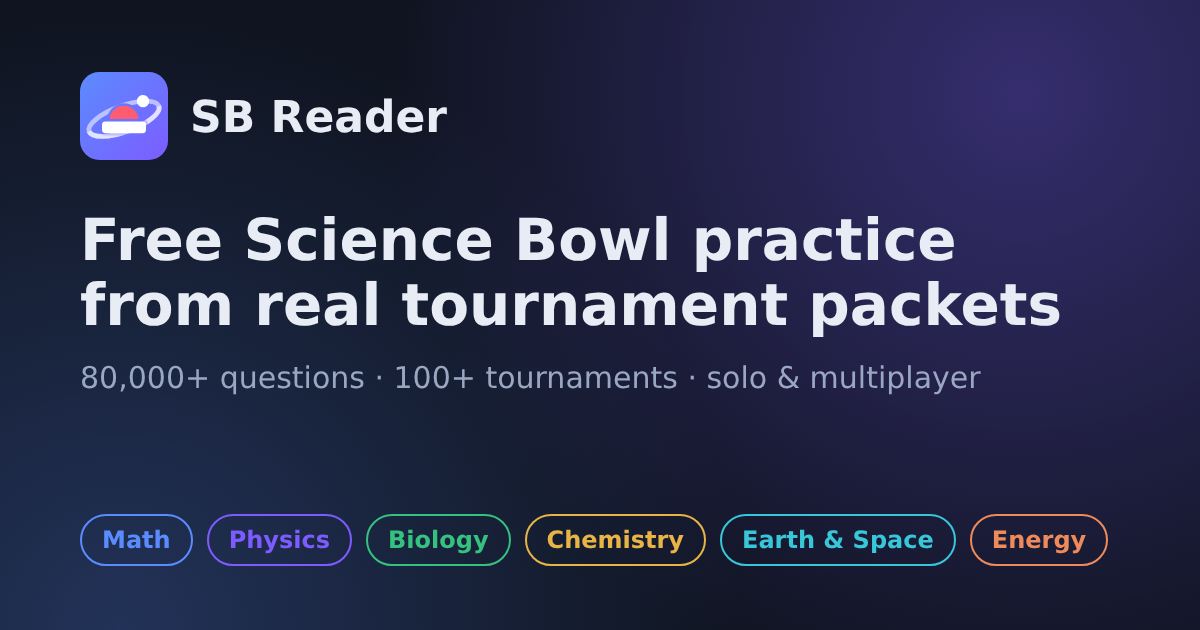
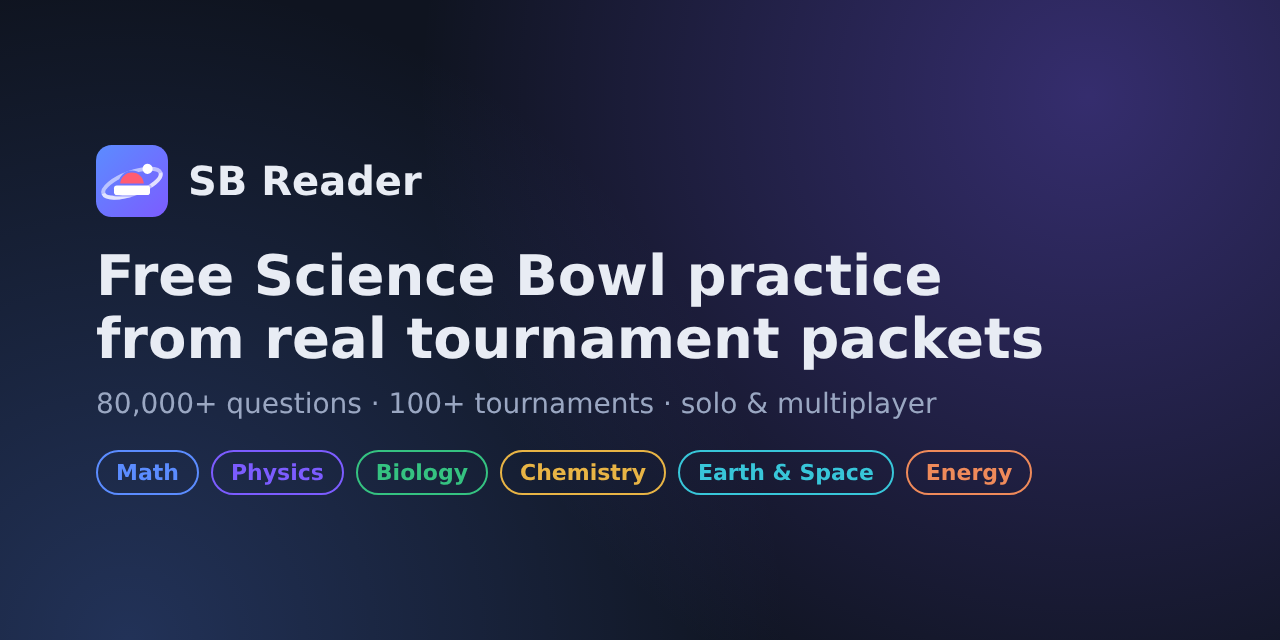
Redraw the preview image at 1280x640 so the repo card doesn't crop it
GitHub's repo card crops the social preview to a wider band than the
image, cutting off the logo at the top and the subject chips at the
bottom. The new image is GitHub's recommended 1280x640 with all content
centered inside the band the card shows.

Claude-Session: https://claude.ai/code/session_016toykcJzbWKE4yrZKZv9re

Changed region(s): [[0.0617, 0.0905, 0.8942, 0.6635], [0.0617, 0.8143, 0.925, 0.9048], [0.0617, 0.6937, 0.8017, 0.7841]]

diff --git a/catalog.html b/catalog.html
@@ -12,8 +12,8 @@
 <meta property="og:description" content="Search and filter 80,000+ Science Bowl tossups and bonuses by subject, tournament, round, level and format. Biology, chemistry, physics, math, earth &amp; space and energy questions from real packets." />
 <meta property="og:url" content="https://unweidlykhan349.github.io/sbreader/catalog.html" />
 <meta property="og:image" content="https://unweidlykhan349.github.io/sbreader/img/og-image.png" />
-<meta property="og:image:width" content="1200" />
-<meta property="og:image:height" content="630" />
+<meta property="og:image:width" content="1280" />
+<meta property="og:image:height" content="640" />
 <meta property="og:image:alt" content="SB Reader: free Science Bowl practice from real tournament packets" />
 <meta name="twitter:card" content="summary_large_image" />
 <link rel="stylesheet" href="css/style.css" />

diff --git a/index.html b/index.html
@@ -12,8 +12,8 @@
 <meta property="og:description" content="Practice for the National Science Bowl with 80,000+ real tossups and bonuses from 100+ tournaments. Search the question catalog, drill solo with a buzzer timer, or play multiplayer with friends. Free, no sign-up." />
 <meta property="og:url" content="https://unweidlykhan349.github.io/sbreader/" />
 <meta property="og:image" content="https://unweidlykhan349.github.io/sbreader/img/og-image.png" />
-<meta property="og:image:width" content="1200" />
-<meta property="og:image:height" content="630" />
+<meta property="og:image:width" content="1280" />
+<meta property="og:image:height" content="640" />
 <meta property="og:image:alt" content="SB Reader: free Science Bowl practice from real tournament packets" />
 <meta name="twitter:card" content="summary_large_image" />
 <link rel="stylesheet" href="css/style.css" />

diff --git a/multiplayer.html b/multiplayer.html
@@ -12,8 +12,8 @@
 <meta property="og:description" content="Host or join an online Science Bowl room with a 5-letter code. Everyone can buzz, with a live scoreboard, chat and real Science Bowl scoring. Free, no accounts or installs." />
 <meta property="og:url" content="https://unweidlykhan349.github.io/sbreader/multiplayer.html" />
 <meta property="og:image" content="https://unweidlykhan349.github.io/sbreader/img/og-image.png" />
-<meta property="og:image:width" content="1200" />
-<meta property="og:image:height" content="630" />
+<meta property="og:image:width" content="1280" />
+<meta property="og:image:height" content="640" />
 <meta property="og:image:alt" content="SB Reader: free Science Bowl practice from real tournament packets" />
 <meta name="twitter:card" content="summary_large_image" />
 <link rel="stylesheet" href="css/style.css" />

diff --git a/solo.html b/solo.html
@@ -12,8 +12,8 @@
 <meta property="og:description" content="Drill Science Bowl questions on your own: questions reveal on screen at your pace, buzz in with Space, type your answer and get graded instantly with real tossup and bonus timers." />
 <meta property="og:url" content="https://unweidlykhan349.github.io/sbreader/solo.html" />
 <meta property="og:image" content="https://unweidlykhan349.github.io/sbreader/img/og-image.png" />
-<meta property="og:image:width" content="1200" />
-<meta property="og:image:height" content="630" />
+<meta property="og:image:width" content="1280" />
+<meta property="og:image:height" content="640" />
 <meta property="og:image:alt" content="SB Reader: free Science Bowl practice from real tournament packets" />
 <meta name="twitter:card" content="summary_large_image" />
 <link rel="stylesheet" href="css/style.css" />

diff --git a/README.md b/README.md
@@ -360,7 +360,7 @@ There's no build step, `npm install`, or environment variables. `package.json` o
 
 ### Search engines and link previews
 
-- Every indexable page has a `<meta name="description">`, a `<link rel="canonical">`, and Open Graph/Twitter tags pointing at `img/og-image.png` (1200×630), so shared links get a title, summary and picture.
+- Every indexable page has a `<meta name="description">`, a `<link rel="canonical">`, and Open Graph/Twitter tags pointing at `img/og-image.png` (1280×640, with everything inside the middle band so GitHub's cropped repo card shows it whole), so shared links get a title, summary and picture.
 - `bookmarks.html` and `404.html` are `noindex`: bookmarks live in each visitor's browser, so there's nothing there to index.
 - `sitemap.xml` lists the four public pages. A project site's `robots.txt` isn't read (crawlers only look at the domain root), so submit `https://unweidlykhan349.github.io/sbreader/sitemap.xml` in Google Search Console and Bing Webmaster Tools instead.
 - The canonical, Open Graph and sitemap URLs, and the absolute paths in `404.html`, name `https://unweidlykhan349.github.io/sbreader/`. A fork, a renamed repo or a custom domain needs them changed (`grep -rn "unweidlykhan349.github.io\|/sbreader/" *.html sitemap.xml`).

diff --git a/CHANGELOG.md b/CHANGELOG.md
@@ -45,4 +45,4 @@ Site and UI changes, newest last. Data changes are in [docs/data-history.md](doc
 - Chemical formulas in questions, choices and answers display their counts as subscripts (H₂SO₄, Ca(OH)₂), with a guard list for look-alikes such as SN2, sp3 and HSP70.
 - Ions written with a superscript charge get their subscripts even when they're one element (H₃⁺), and P680/P700 are no longer read as phosphorus.
 - Grading: typing the key exactly now ignores its exponent markup too, so "W+ boson" matches a key stored as "W^+ BOSON" even when "W boson" is on the reject list.
-- SEO: descriptive page titles, meta descriptions, canonical URLs, Open Graph/Twitter cards with a 1200×630 preview image (`img/og-image.png`), `sitemap.xml`, a `404.html`, and `noindex` on the per-device bookmarks page. README opens with a keyword-rich summary, live-site link and badges.
+- SEO: descriptive page titles, meta descriptions, canonical URLs, Open Graph/Twitter cards with a 1280×640 preview image (`img/og-image.png`), `sitemap.xml`, a `404.html`, and `noindex` on the per-device bookmarks page. README opens with a keyword-rich summary, live-site link and badges.
